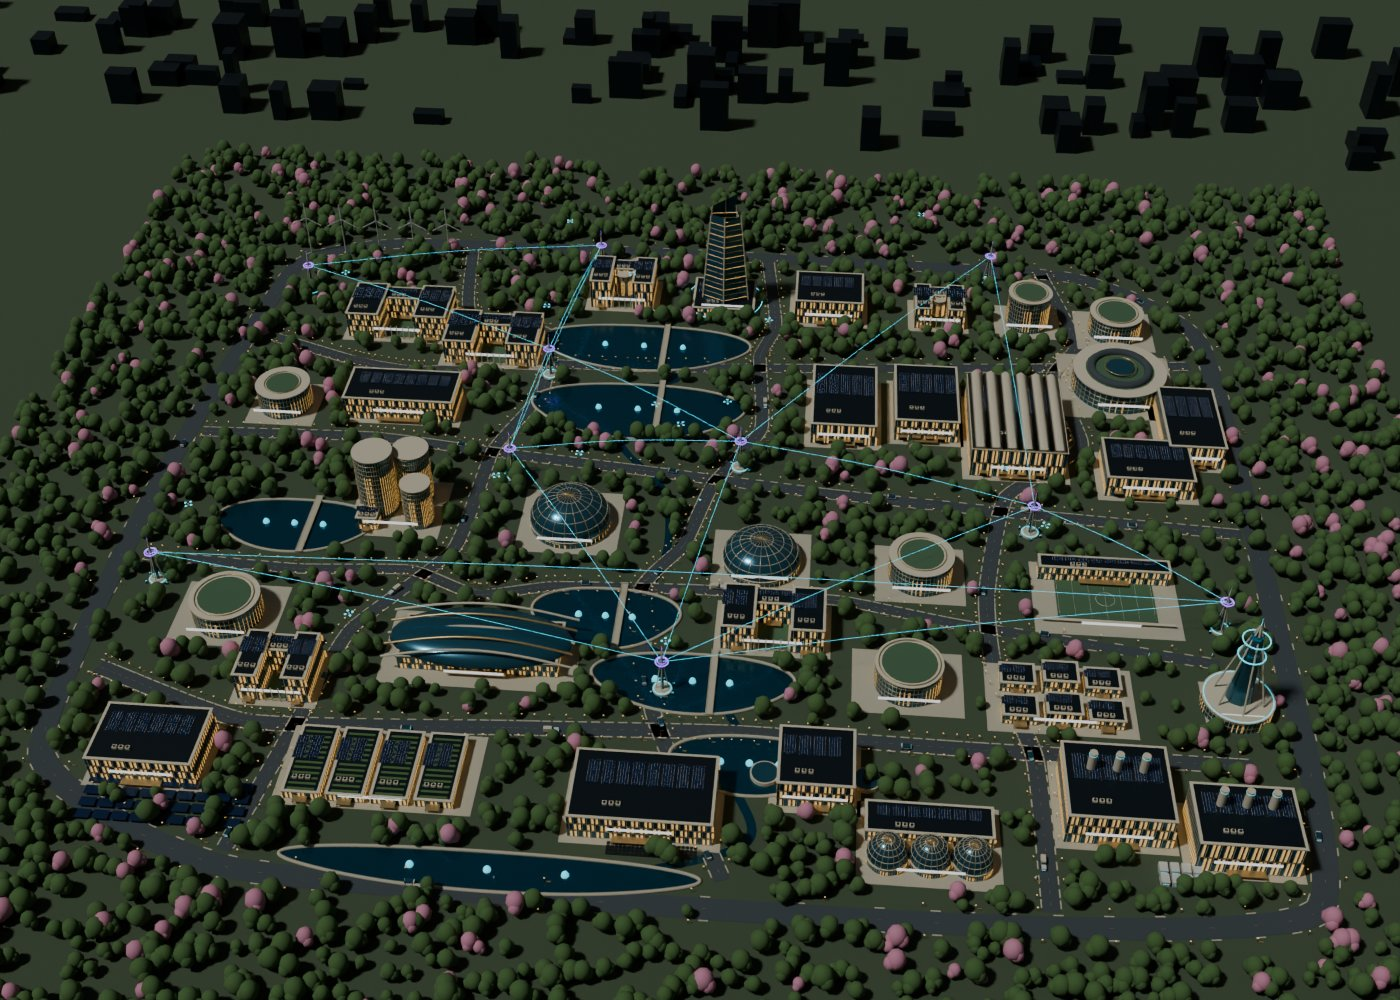
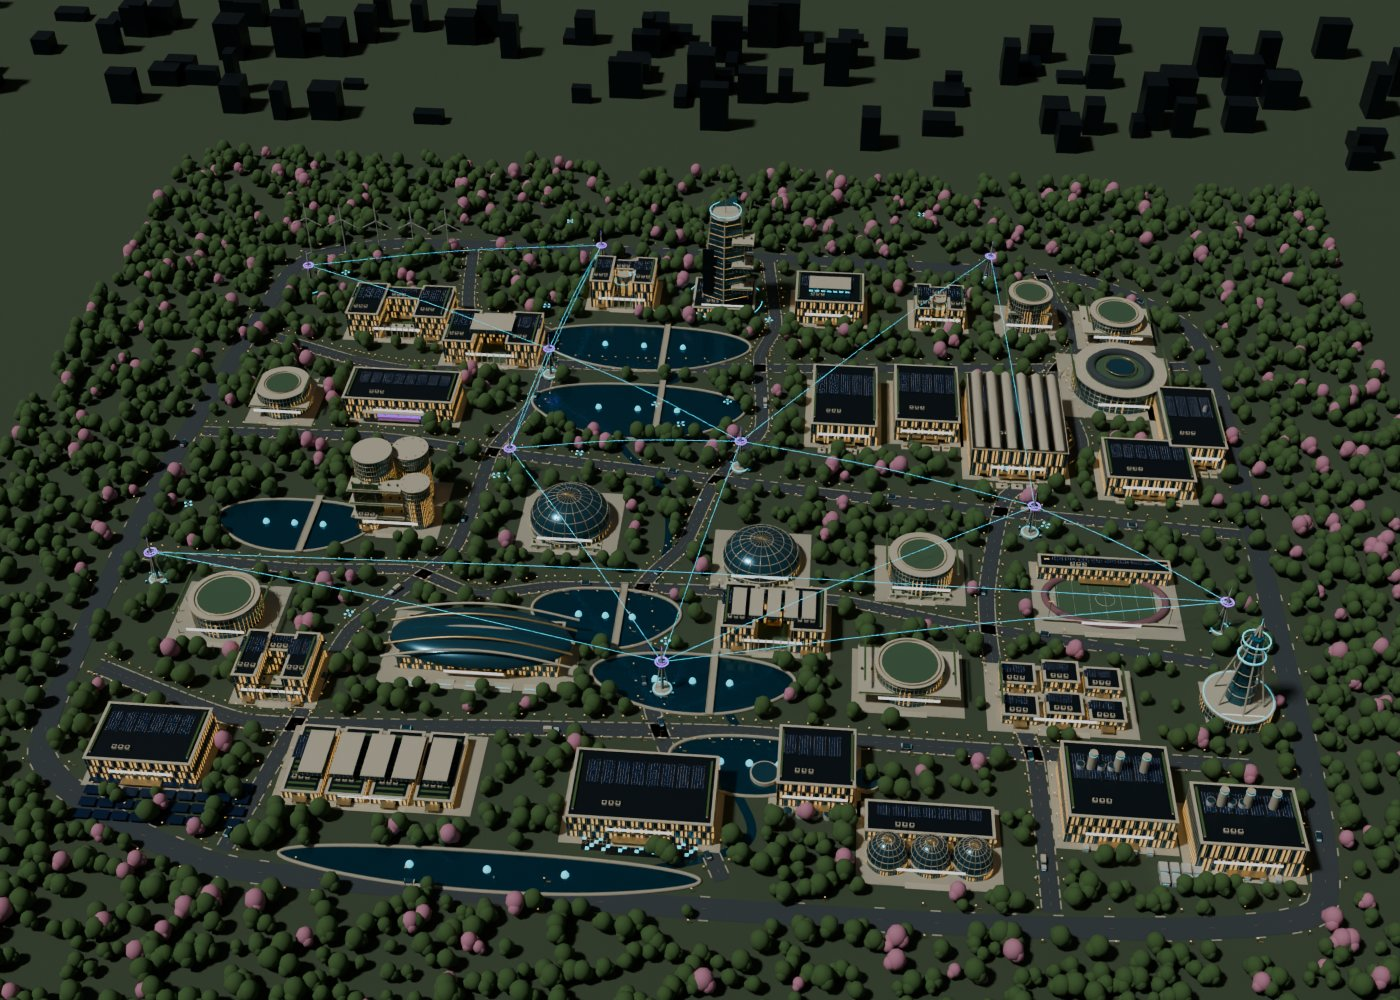
Record authorized preview checks and updated architectural review evidence

diff --git a/viewer/campus/plans.js b/viewer/campus/plans.js
@@ -4,7 +4,7 @@ function svgElement(tag,attrs={},text){const el=document.createElementNS(NS,tag)
 export function createCampusMap(container,onSelect){
  const panel=document.createElement('section');panel.id='map-fallback';panel.setAttribute('aria-label','Schematic campus map');
  const intro=document.createElement('div');intro.className='map-intro';const heading=document.createElement('h1');heading.textContent='Explore the campus plans.';const p=document.createElement('p');p.textContent='3D graphics are unavailable in this browser. Select a facility to explore its schematic floor plans.';intro.append(heading,p);panel.append(intro);
- const map=svgElement('svg',{viewBox:`${-SITE.width/2-20} ${-SITE.depth/2-20} ${SITE.width+40} ${SITE.depth+40}`,role:'img','aria-label':'35 facilities and their relative landscape positions'});
+ const map=svgElement('svg',{viewBox:`${-SITE.width/2-20} ${-SITE.depth/2-20} ${SITE.width+40} ${SITE.depth+40}`,role:'group','aria-label':'35 facilities and their relative landscape positions'});
  map.append(svgElement('rect',{x:-SITE.width/2,y:-SITE.depth/2,width:SITE.width,height:SITE.depth,rx:90,fill:'#10292c',stroke:'#45746a','stroke-width':2}));
  for(const [x,z,rx,rz] of LAKES)map.append(svgElement('ellipse',{cx:x,cy:z,rx,ry:rz,fill:'#174b65',stroke:'#6b97a3','stroke-width':1}));
  for(let i=1;i<SPIRES.length;i++)map.append(svgElement('line',{x1:SPIRES[i-1][0],y1:SPIRES[i-1][1],x2:SPIRES[i][0],y2:SPIRES[i][1],stroke:'#9675c7','stroke-width':1.5,'stroke-dasharray':'4 7'}));
@@ -16,7 +16,7 @@ export function createPlanViewer(){
  const dialog=document.createElement('dialog');dialog.id='plan-dialog';dialog.setAttribute('aria-labelledby','plan-title');
  dialog.innerHTML='<div class="plan-heading"><div><span class="eyebrow" id="plan-id"></span><h2 id="plan-title"></h2></div><button id="plan-close" aria-label="Close floor plan">×</button></div><div class="plan-controls"><label>Floor <select id="plan-floor" aria-label="Plan floor"></select></label><p id="plan-dimensions"></p></div><div class="plan-body"><div id="floor-drawing"></div><div class="plan-room-panel"><span class="eyebrow">ROOM PROGRAM</span><div id="plan-rooms"></div><p id="plan-room-info" role="status"></p></div></div><p class="plan-note">Schematic design from the supplied package. Room zones are proposed gross blocks, not surveyed interiors. Furniture is omitted from this plan.</p>';
  document.body.append(dialog);const query=s=>dialog.querySelector(s);let facility=null,lastFocus=null;
- function draw(level){const layout=floorLayout(facility,level),pad=1.6;query('#plan-dimensions').textContent=`${facility.width.toFixed(1)} × ${facility.depth.toFixed(1)} ft · 12 ft central circulation`;const svg=svgElement('svg',{viewBox:`${-layout.w/2-pad} ${-layout.d/2-pad} ${layout.w+pad*2} ${layout.d+pad*2}`,role:'img','aria-label':`${facility.name}, ${facility.id===3?'basement':'floor'} ${level+1}, six proposed program zones`});
+ function draw(level){const layout=floorLayout(facility,level),pad=1.6;query('#plan-dimensions').textContent=`${facility.width.toFixed(1)} × ${facility.depth.toFixed(1)} ft · 12 ft central circulation`;const svg=svgElement('svg',{viewBox:`${-layout.w/2-pad} ${-layout.d/2-pad} ${layout.w+pad*2} ${layout.d+pad*2}`,role:'group','aria-label':`${facility.name}, ${facility.id===3?'basement':'floor'} ${level+1}, six proposed program zones`});
  svg.append(svgElement('rect',{x:-layout.w/2,y:-layout.d/2,width:layout.w,height:layout.d,fill:'#d9d4c6',stroke:'#68797c','stroke-width':.12}));
  svg.append(svgElement('rect',{x:-layout.w/2+layout.core,y:-layout.corridor/2,width:layout.w-2*layout.core,height:layout.corridor,fill:'#f4f0e4'}));
  for(const side of [-1,1]){const x=side<0?-layout.w/2:layout.w/2-layout.core;svg.append(svgElement('rect',{x,y:-layout.d/2,width:layout.core,height:layout.d,fill:'#69808a'}));svg.append(svgElement('text',{x:x+layout.core/2,y:0,'font-size':.6,'text-anchor':'middle',fill:'#fff',transform:`rotate(-90 ${x+layout.core/2} 0)`},'STAIR / LIFT / MEP'));}

diff --git a/scripts/render_reference_review.py b/scripts/render_reference_review.py
@@ -12,4 +12,5 @@ bpy.ops.object.camera_add();cam=bpy.context.object;s.camera=cam;cam.data.lens=42
 cam.location=(90,-1100,960);target=Vector((0,0,0));cam.rotation_euler=(target-cam.location).to_track_quat('-Z','Y').to_euler()
 s.view_settings.view_transform='AgX';s.render.image_settings.file_format='JPEG';s.render.image_settings.quality=85
 for name,position,look in [('aerial',(90,-1100,960),(0,0,0)),('north',(-100,1000,800),(0,0,0)),('prism',(115,165,110),(0,315,52)),('eden',(-125,-173,105),(-265,-33,28))]:
+ cam.data.lens=30 if name in ('prism','eden') else 42
  target=Vector(look);cam.location=position;cam.rotation_euler=(target-cam.location).to_track_quat('-Z','Y').to_euler();s.render.filepath=str(Path(__file__).resolve().parents[1]/('evidence/offline-'+name+'.jpg'));bpy.ops.render.render(write_still=True)

diff --git a/evidence/VALIDATION.md b/evidence/VALIDATION.md
@@ -20,7 +20,14 @@ The visible geometry is a procedural reconstruction, not an identical reproducti
 
 No exact-match score or browser visual pass is claimed. Offline geometry reviews do not certify actual Three.js rendering, Babylon browser controls, mobile interaction or performance.
 
-## Browser access blocker
-Local preview attempts at 127.0.0.1:5173 and localhost:8080 were blocked by the provided browser. The Vercel preview redirected toward Vercel sign-in; automatic approval review rejected browser access to the Vercel origin because separate authenticated dashboard/account access had not been approved. No alternate browser, protection bypass or share token was used to circumvent that rejection.
+## Browser verification — authorized preview
+The user authorized Vercel access. The scoped preview was accessed successfully and deployment `2b41c27` was READY. The provided browser reports WebGL disabled (`GL_RENDERER=Disabled`, context creation failed), so actual exterior rendering and Babylon movement cannot be verified here.
 
-Remaining checks after authorized preview access: startup/loading failure, scene render, facility selection from model and directory, all floor selectors, guided stops, WASD/touch collision behavior, exit/re-entry, layer toggles, desktop and mobile screenshot comparison, and physical Galaxy A15 frame-time/memory testing. Keep the PR draft until those checks and visual acceptance are satisfied.
+Verified in the deployed browser:
+- Capability failure displays the schematic campus map and directory instead of a reload-only dead end.
+- CF-01 selection, opening its floor plan, changing to L12 and selecting Observation gallery.
+- Directory search for Hearth and CF-35 selection with its two floors.
+- Desktop floor-plan modal and a 412px-wide iframe layout, including room selection. Screenshots are `browser-desktop-plan.jpg` and `browser-portrait-plan.jpg`. The latter is viewport layout simulation, not mobile hardware emulation.
+- All floor-plan interactions remain available independently of WebGL. The 3D tour button correctly reports unavailability in this browser.
+
+Remaining checks: actual Three.js scene rendering and picking, guided stops, WASD/touch collision behavior, exit/re-entry, layer toggles, GPU desktop/mobile screenshot comparison, and physical Galaxy A15 frame-time/memory testing. Exact visual acceptance remains unmet. Keep this PR draft.
